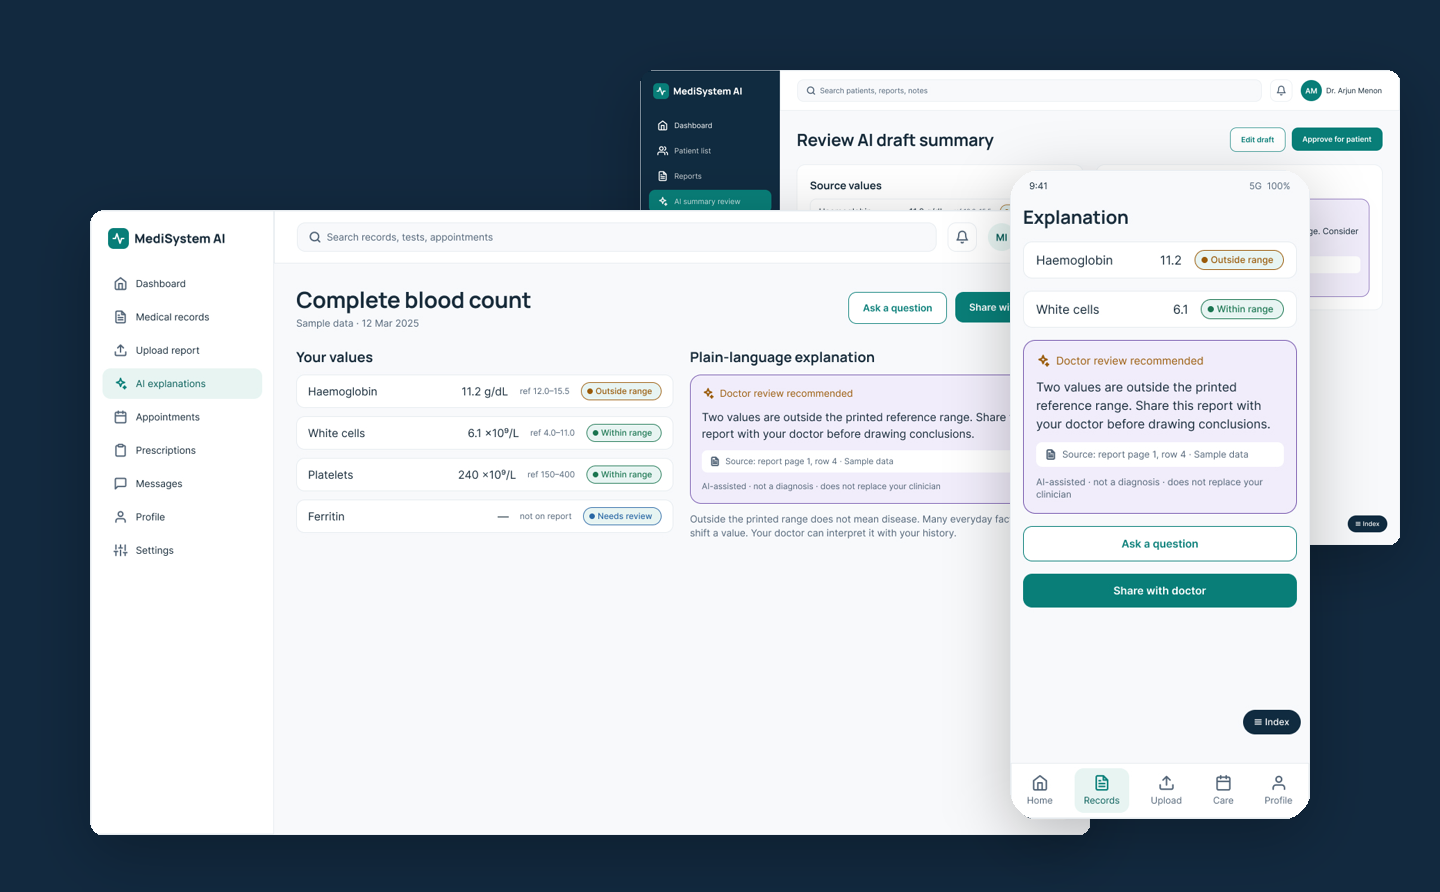
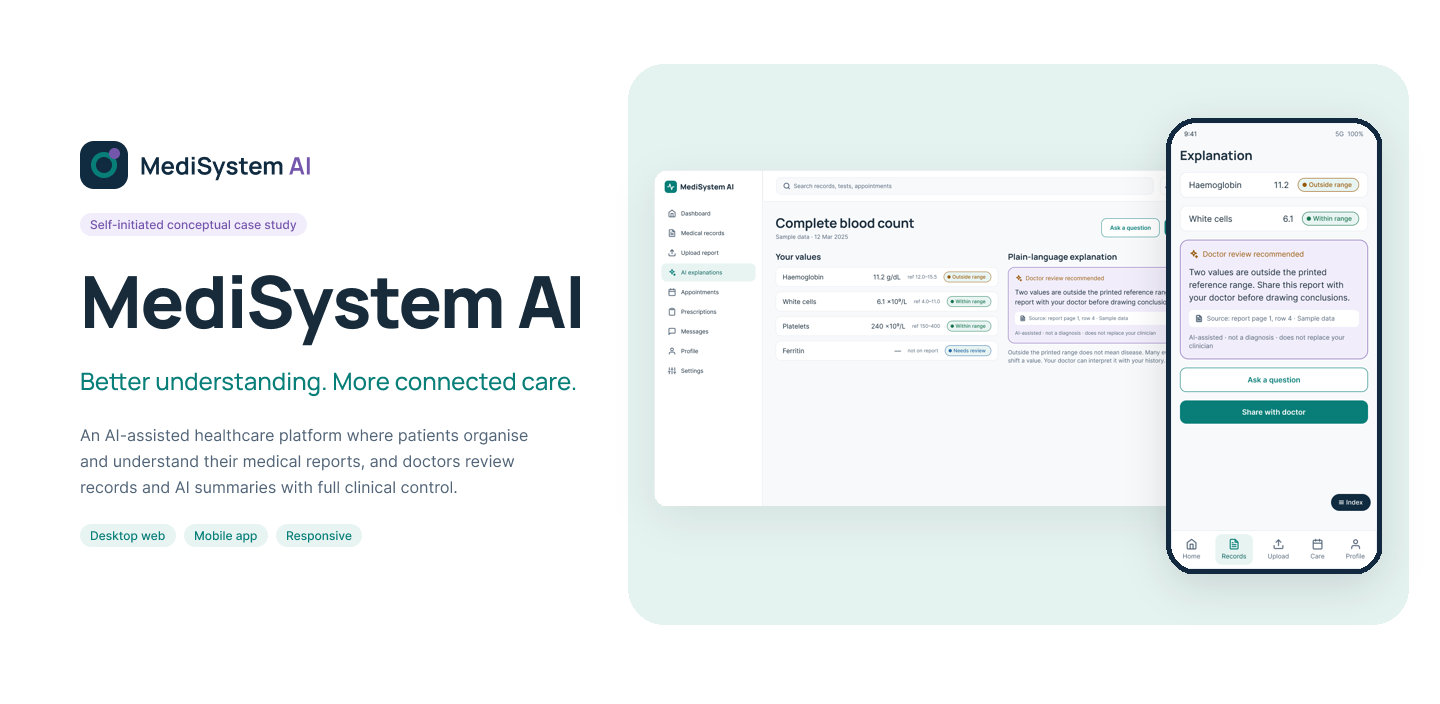
MediSystem AI cover: content left, desktop and mobile screens right
Claude-Session: https://claude.ai/code/session_014Jgnq36b5UVe8qoqWgM6Fm

diff --git a/src/components/case/layouts.tsx b/src/components/case/layouts.tsx
@@ -164,7 +164,7 @@ const medisystem: Layout = {
     const A = p.accent;
     const Cap = ({ children }: { children: React.ReactNode }) => <p className="mt-3 text-[14px] text-muted">{children}</p>;
     return (<>
-    <div className="mb-[72px] max-lg:mb-12"><Shot src={`${M}/cover.png`} alt="MediSystem AI: patient explanation, doctor review and mobile screens" w={1440} h={892} /></div>
+    <div className="mb-[72px] max-lg:mb-12"><Shot src={`${M}/cover.png`} alt="MediSystem AI: patient explanation, doctor review and mobile screens" w={1440} h={704} /></div>
     <Sec id="overview" title="Helping people understand their results, and helping doctors review them">
       <P>Lab reports reach patients as numbers and ranges. This concept explains a report in plain language, ties every statement to its source value, and routes it through a doctor before it is treated as reviewed.</P>
       <div className="mt-8"><Shot src={`${M}/pd/02-dashboard.webp`} alt="Patient dashboard with reports, review count and an AI-assisted explanation" w={1440} h={900} caption="Patient dashboard: recent reports, next appointment and an AI-assisted explanation" /></div>

diff --git a/src/data/projects.ts b/src/data/projects.ts
@@ -69,7 +69,7 @@ export const projects: Project[] = [
     tagline: "Better understanding. More connected care.",
     description: "A concept patient and doctor product that explains medical reports in plain language, with source traceability and clinician review. Sample data only.",
     years: "2025", role: "Senior UI/UX & AI Designer (solo)", scope: "Research, UX, UI, design system, prototype", results: "54 screens, ~30 components, clickable prototype (concept)",
-    readTime: 6, accent: "#0f766e", cover: "/case/medisystem-ai/cover.png", coverBg: "#12293f", caseStudy: base("MediSystem AI"),
+    readTime: 6, accent: "#0f766e", cover: "/case/medisystem-ai/cover.png", coverBg: "#ffffff", caseStudy: base("MediSystem AI"),
   },
   {
     slug: "global-design-check",
